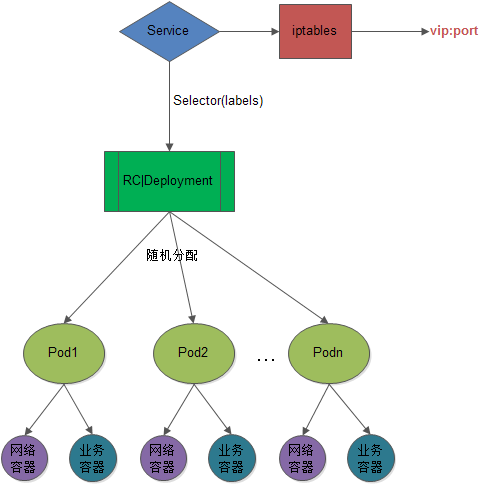
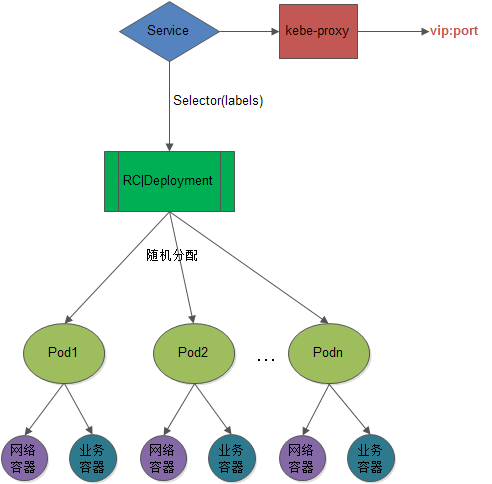
Update /2017-9-4-kube-proxy.md

diff --git a/_posts/2017-9-4-kube-proxy.md b/_posts/2017-9-4-kube-proxy.md
@@ -7,21 +7,159 @@ tags: Linux Network Kubernetes
 excerpt: kubernetes网络架构……
 ---
 
-## kubernetes服务架构
+## Kubernetes网络
+
+Kubernetes采用扁平化的网络模型，每个Pod都有一个全局唯一的IP(IP-per-pod),Pod之间可以跨主机通信，相比于Docker原生的NAT方式来说，这样使得容器在网络层面更像虚拟机或者物理机，复杂度整体降低，更加容易实现服务发现，迁移，负载均衡等功能。为了实现这个目标，Kubernetes中需要解决4个问题：
+
+### 容器间通信(Netowrk Container)
+
+Pod是容器的集合，Pod包含的容器都运行在同一个Host上，并且拥有同样的网络空间。现在创建一个Pod,包含2种Container：业务容器，网络容器。
+
+举例如下：
+
+```
+#web-pod.yaml
+apiVersion: v1
+kind: Pod
+metadata:
+name: webpod
+labels:
+name: webpod
+spec:
+containers:
+- name: webpod80
+  image: jonlangemak/docker:web_container_80
+  ports:
+    - containerPort: 80
+      hostPort: 80
+- name: webpod8080
+  image: jonlangemak/docker:web_container_8080
+  ports:
+    - containerPort: 8080
+      hostPort: 8080
+```
+
+Pod运行成功后，在其所在的Node上查询容器：
+
+```bash
+$ docker ps
+CONTAINER ID        IMAGE                                      PORTS                                         
+63dc7e032ab6        jonlangemak/docker:web_container_8080                                                  
+4ac1a5156a04        jonlangemak/docker:web_container_80                                                    
+b77896498f8f        gcr.io/google_containers/pause:0.8.0       0.0.0.0:80->80/tcp, 0.0.0.0:8080->8080/tcp
+```
+
+可以看到运行了3个容器，其中2个这是Pod定义好的，第3个运行的容器镜像是`gcr.io/google_containers/pause`，它是`Netowrk Container`，它不做任何事情，只是用来接管Pod的网络
+
+通过`docker inspect`查看着几个容器的信息，可以看出Pod中定义的容器的网络设置都集中配置在了`Netowrk Container`上，然后再加入`Netowrk Container`的网络中。这样的好处是避免服务容器之间产生依赖，用一个简单的容器来统一管理网络
+
+### Pod间通信(Flannel)
+
+Pod间通信是使用一个内部IP,这个IP即使Netowrk Container的IP
+
+以web-pod为例:
+
+```bash
+$ kubectl describe pod webpod
+Name:      webpod
+Namespace:     default
+IP:    10.1.14.51
+...
+
+$ docker inspect b77896498f8f  |grep IPAddress
+    "IPAddress": "10.1.14.51",
+```
+
+对应用来说，这个IP是应用能看到，并且是可以对外宣称的（服务注册，服务发现）；而NAT方式，应用能看到的IP是不能对外宣称的（必须要使用主机IP+port方式），端口本身就是稀缺资源，并且ip+port的方式，无疑增加了复杂度，这就是IP-per-pod的优势所在
+
+那么第一个问题就是，如何保证Pod的IP是全局唯一的。其实做法也很简单，因为Pod的IP是docker bridge分配的，不同Node之间docker bridge配置成不同的网段:
+
+```
+- node1: docker -d --bip=10.1.79.1/24 ...
+- node2: docker -d --bip=10.1.14.1/24 ...
+- node3: docker -d --bip=10.1.58.1/24 ...
+```
+
+同一个Node上的Pod原生能通信，但是不同Node之间的Pod如何通信的，这就需要对Docker进行增强，现有的方案有Flannel,OpenVSwitch,Weave等。本文Kubernetes环境是采用Flannel，下面进行介绍：
+
+#### [Flannel介绍](http://dockone.io/article/618)
+
+Flannel是CoreOS团队针对Kubernetes设计的一个网络规划服务，简单来说，它的功能是让集群中的不同节点主机创建的Docker容器都具有全集群唯一的虚拟IP地址
+
+在Kubernetes的网络模型中，假设了每个物理节点应该具备一段“属于同一个内网IP段内”的“专用的子网IP”。例如：
+
+```
+节点A：10.0.1.0/24
+节点B：10.0.2.0/24
+节点C：10.0.3.0/24
+```
+
+但在默认的Docker配置中，每个节点上的Docker服务会分别负责所在节点容器的IP分配。这样导致的一个问题是，不同节点上容器可能获得相同的内外IP地址。并使这些容器之间能够之间通过IP地址相互找到，也就是相互ping通
+
+Flannel的设计目的就是为集群中的所有节点重新规划IP地址的使用规则，从而使得不同节点上的容器能够获得“同属一个内网”且”不重复的”IP地址，并让属于不同节点上的容器能够直接通过内网IP通信
+
+#### Flannel的工作原理
+
+Flannel实质上是一种“覆盖网络(overlay network)”，也就是将TCP数据包装在另一种网络包里面进行路由转发和通信，目前已经支持UDP、VxLAN、AWS VPC和GCE路由等数据转发方式
+
+默认的节点间数据通信方式是UDP转发，在Flannel的GitHub页面有如下的一张原理图：
+
+![](/public/img/k8s/flannel.png)
+
+这张图的信息量很全，下面简单的解读一下
+
+数据从源容器中发出后，经由所在主机的docker0虚拟网卡转发到flannel0虚拟网卡，这是个P2P的虚拟网卡，flanneld服务监听在网卡的另外一端
+
+Flannel通过Etcd服务维护了一张节点间的路由表，在稍后的配置部分我们会介绍其中的内容
+
+源主机的flanneld服务将原本的数据内容UDP封装后根据自己的路由表投递给目的节点的flanneld服务，数据到达以后被解包，然后直接进入目的节点的flannel0虚拟网卡，然后被转发到目的主机的docker0虚拟网卡，最后就像本机容器通信一样的由docker0路由到达目标容器
+
+这样整个数据包的传递就完成了，这里需要解释三个问题：
+
+**第一个问题，UDP封装是怎么一回事？**
+
+我们来看下面这个图，这是在其中一个通信节点上抓取到的ping命令通信数据包。可以看到在UDP的数据内容部分其实是另一个ICMP（也就是ping命令）的数据包：
+
+![](/public/img/k8s/flannel_ping.png)
+
+原始数据是在起始节点的Flannel服务上进行UDP封装的，投递到目的节点后就被另一端的Flannel服务还原成了原始的数据包，两边的Docker服务都感觉不到这个过程的存在
+
+**第二个问题，为什么每个节点上的Docker会使用不同的IP地址段？**
+
+这个事情看起来很诡异，但真相十分简单。其实只是单纯的因为Flannel通过Etcd分配了每个节点可用的IP地址段后，偷偷的修改了Docker的启动参数，见下图:
+
+![](/public/img/k8s/flannel_docker.png)
+
+这个是在运行了Flannel服务的节点上查看到的Docker服务进程运行参数
+
+注意其中的“--bip=172.17.18.1/24”这个参数，它限制了所在节点容器获得的IP范围
+
+这个IP范围是由Flannel自动分配的，由Flannel通过保存在Etcd服务中的记录确保它们不会重复
+
+**第三个问题，为什么在发送节点上的数据会从docker0路由到flannel0虚拟网卡，在目的节点会从flannel0路由到docker0虚拟网卡？**
+
+我们来看一眼安装了Flannel的节点上的路由表。下面是数据发送节点的路由表：
+
+![](/public/img/k8s/flannel_send_route.png)
+
+这个是数据接收节点的路由表：
+
+![](/public/img/k8s/flannel_receive_route.png)
+
+例如现在有一个数据包要从IP为172.17.18.2的容器发到IP为172.17.46.2的容器。根据数据发送节点的路由表，它只与172.17.0.0/16匹配这条记录匹配，因此数据从docker0出来以后就被投递到了flannel0。同理在目标节点，由于投递的地址是一个容器，因此目的地址一定会落在docker0对于的172.17.46.0/24这个记录上，自然的被投递到了docker0网卡
  
-先给出`kubernetes`服务架构，如下：
+### Pod到Service通信(Kube-proxy)
+ 
+Pod本身是变化的，比如当Pod发生迁移，那么Pod的IP是变化的, 那么Service的就是在Pod之间起到中转和代理的作用，Service会生成一个虚拟IP, 这个虚拟IP负载均衡到后端的Pod的IP，先给出`kubernetes`服务架构，如下：
 
 ![](/public/img/k8s/k8s服务架构图.png)
 
-关于`kubernetes`服务可以参考如下[文章](http://cizixs.com/2017/03/30/kubernetes-introduction-service-and-kube-proxy)，本文主要介绍kubernetes网络架构，也即图中service的iptables部分（cni插件化）
-
-## kube-proxy
+关于`kubernetes`服务可以参考如下[文章](http://cizixs.com/2017/03/30/kubernetes-introduction-service-and-kube-proxy)，本文主要介绍kubernetes网络架构，也即图中service的kube-proxy部分(Pod到Service通信)：
 
 `kube-proxy`的作用主要是负责service的实现，`kube-proxy`运行在每个节点上，监听 API Server 中服务对象的变化，通过管理 iptables 来实现网络的转发。目前有`userspace`和`iptables`两种实现方式：
 
 * `userspace` 是在用户空间监听一个端口，所有的 service 都转发到这个端口，然后 `kube-proxy` 在内部应用层对其进行转发。因为是在用户空间进行转发，所以效率也不高
-
-*  `iptables` 完全用 `iptables` 来实现 service，是目前默认的方式，也是推荐的方式，效率很高（只有内核中 `netfilter` 一些损耗）
+* `iptables` 完全用 `iptables` 来实现 service，是目前默认的方式，也是推荐的方式，效率很高（只有内核中 `netfilter` 一些损耗）
 
 这篇文章通过 `iptables` 模式运行 `kube-proxy`，后面的分析也是针对这个模式的，`userspace` 只是旧版本支持的模式，以后可能会放弃维护和支持
 
@@ -47,7 +185,7 @@ spec:
 
 mysql-service对应的nodePort暴露出来的端口为30964，对应的cluster IP(10.254.162.44)的端口为3306，进一步对应于后端的pod的端口为3306
 
-mysql-service后端代理了两个pod，ip分别是192.168.125.129和192.168.125.131。先来看一下iptables
+mysql-service后端代理了两个pod，ip分别是192.168.125.129和192.168.125.131。先来看一下iptables:
 
 ```bash
 [root@localhost ~]# iptables -S -t nat
@@ -108,5 +246,102 @@ mysql-service后端代理了两个pod，ip分别是192.168.125.129和192.168.125
 
 接下来的跳转方式同上文，这里就不再赘述了
 
-## cni
+如果转发的 pod 不能正常提供服务，它不会自动尝试另一个 pod，当然这个可以通过 readiness probes 来解决。每个 pod 都有一个健康检查的机制，当有 pod 健康状况有问题时，kube-proxy 会删除对应的转发规则
 
+还需要注意的是，当前Kube-Proxy只是3层"(TCP/UDP over IP) 转发，当后端有多个Pod的时候，Kube-Proxy默认采用轮询方式进行选择，也可以设置成基于CLientIP的会话保持
+
+### 外网到内网的通信
+
+上面创建的服务只能在集群内部访问，这在生产环境中还不能直接使用。如果希望有一个能直接对外使用的服务，可以使用 NodePort 或者 LoadBalancer 类型的 Service。我们先说说 NodePort ，它的意思是在所有 worker 节点上暴露一个端口，这样外部可以直接通过访问 nodeIP:Port 来访问应用
+
+`whoami-svc.yml`如下：
+
+```
+apiVersion: v1
+kind: Service
+metadata:
+  labels:
+    name: whoami
+  name: whoami
+spec:
+  ports:
+    - port: 3000
+      protocol: TCP
+      # nodePort: 31000
+  selector:
+    app: whoami
+  type: NodePort
+```
+
+因为我们的应用比较简单，只有一个端口。如果 pod 有多个端口，也可以在 spec.ports中继续添加，只有保证多个 port 之间不冲突就行
+
+`whoami-rc.yml`如下：
+
+```
+apiVersion: v1
+kind: ReplicationController
+metadata:
+  name: whoami
+spec:
+  replicas: 3
+  selector:
+    app: whoami
+  template:
+    metadata:
+      name: whoami
+      labels:
+        app: whoami
+        env: dev
+    spec:
+      containers:
+      - name: whoami
+        image: cizixs/whoami:v0.5
+        ports:
+        - containerPort: 3000
+        env:
+          - name: MESSAGE
+            value: viola
+```
+
+创建 `rc` 和 `svc`：
+
+```bash
+[root@localhost ~]# kubectl create -f ./whoami-svc.yml
+service "whoami" created
+[root@localhost ~]# kubectl get rc,pods,svc
+NAME        DESIRED   CURRENT   READY     AGE
+rc/whoami   3         3         3         10s
+
+NAME              READY     STATUS    RESTARTS   AGE
+po/whoami-8zc3d   1/1       Running   0          10s
+po/whoami-mc2fg   1/1       Running   0          10s
+po/whoami-z6skj   1/1       Running   0          10s
+
+NAME             CLUSTER-IP     EXTERNAL-IP   PORT(S)          AGE
+svc/kubernetes   10.10.10.1     <none>        443/TCP          14h
+svc/whoami       10.10.10.163   <nodes>       3000:31647/TCP   7s
+```
+
+需要注意的是，因为我们没有指定 nodePort 的值，kubernetes 会自动给我们分配一个，比如这里的 31647（默认的取值范围是 30000-32767）。当然我们也可以删除配置中 `# nodePort: 31000` 的注释，这样会使用 31000 端口
+
+nodePort 类型的服务会在所有的 worker 节点（运行了 kube-proxy）上统一暴露出端口对外提供服务，也就是说外部可以任意选择一个节点进行访问。比如我本地集群有三个节点：172.17.8.100、172.17.8.101 和 172.17.8.102：
+
+```bash
+[root@localhost ~]# curl http://172.17.8.100:31647
+viola from whoami-mc2fg
+[root@localhost ~]# curl http://172.17.8.101:31647
+viola from whoami-8zc3d
+[root@localhost ~]# curl http://172.17.8.102:31647
+viola from whoami-z6skj
+```
+
+有了 nodePort，用户可以通过外部的 Load Balance 或者路由器把流量转发到任意的节点，对外提供服务的同时，也可以做到负载均衡的效果
+
+nodePort 类型的服务并不影响原来虚拟 IP 的访问方式，内部节点依然可以通过 `vip:port` 的方式进行访问
+
+## Refs
+
+* [kubernetes入门之kube-proxy实现原理](https://xuxinkun.github.io/2016/07/22/kubernetes-proxy/)
+* [kubernetes 简介：service 和 kube-proxy 原理](http://cizixs.com/2017/03/30/kubernetes-introduction-service-and-kube-proxy)
+* [Kubernetes技术分析之网络](http://dockone.io/article/545)
+* [一篇文章带你了解Flannel](http://dockone.io/article/618)
